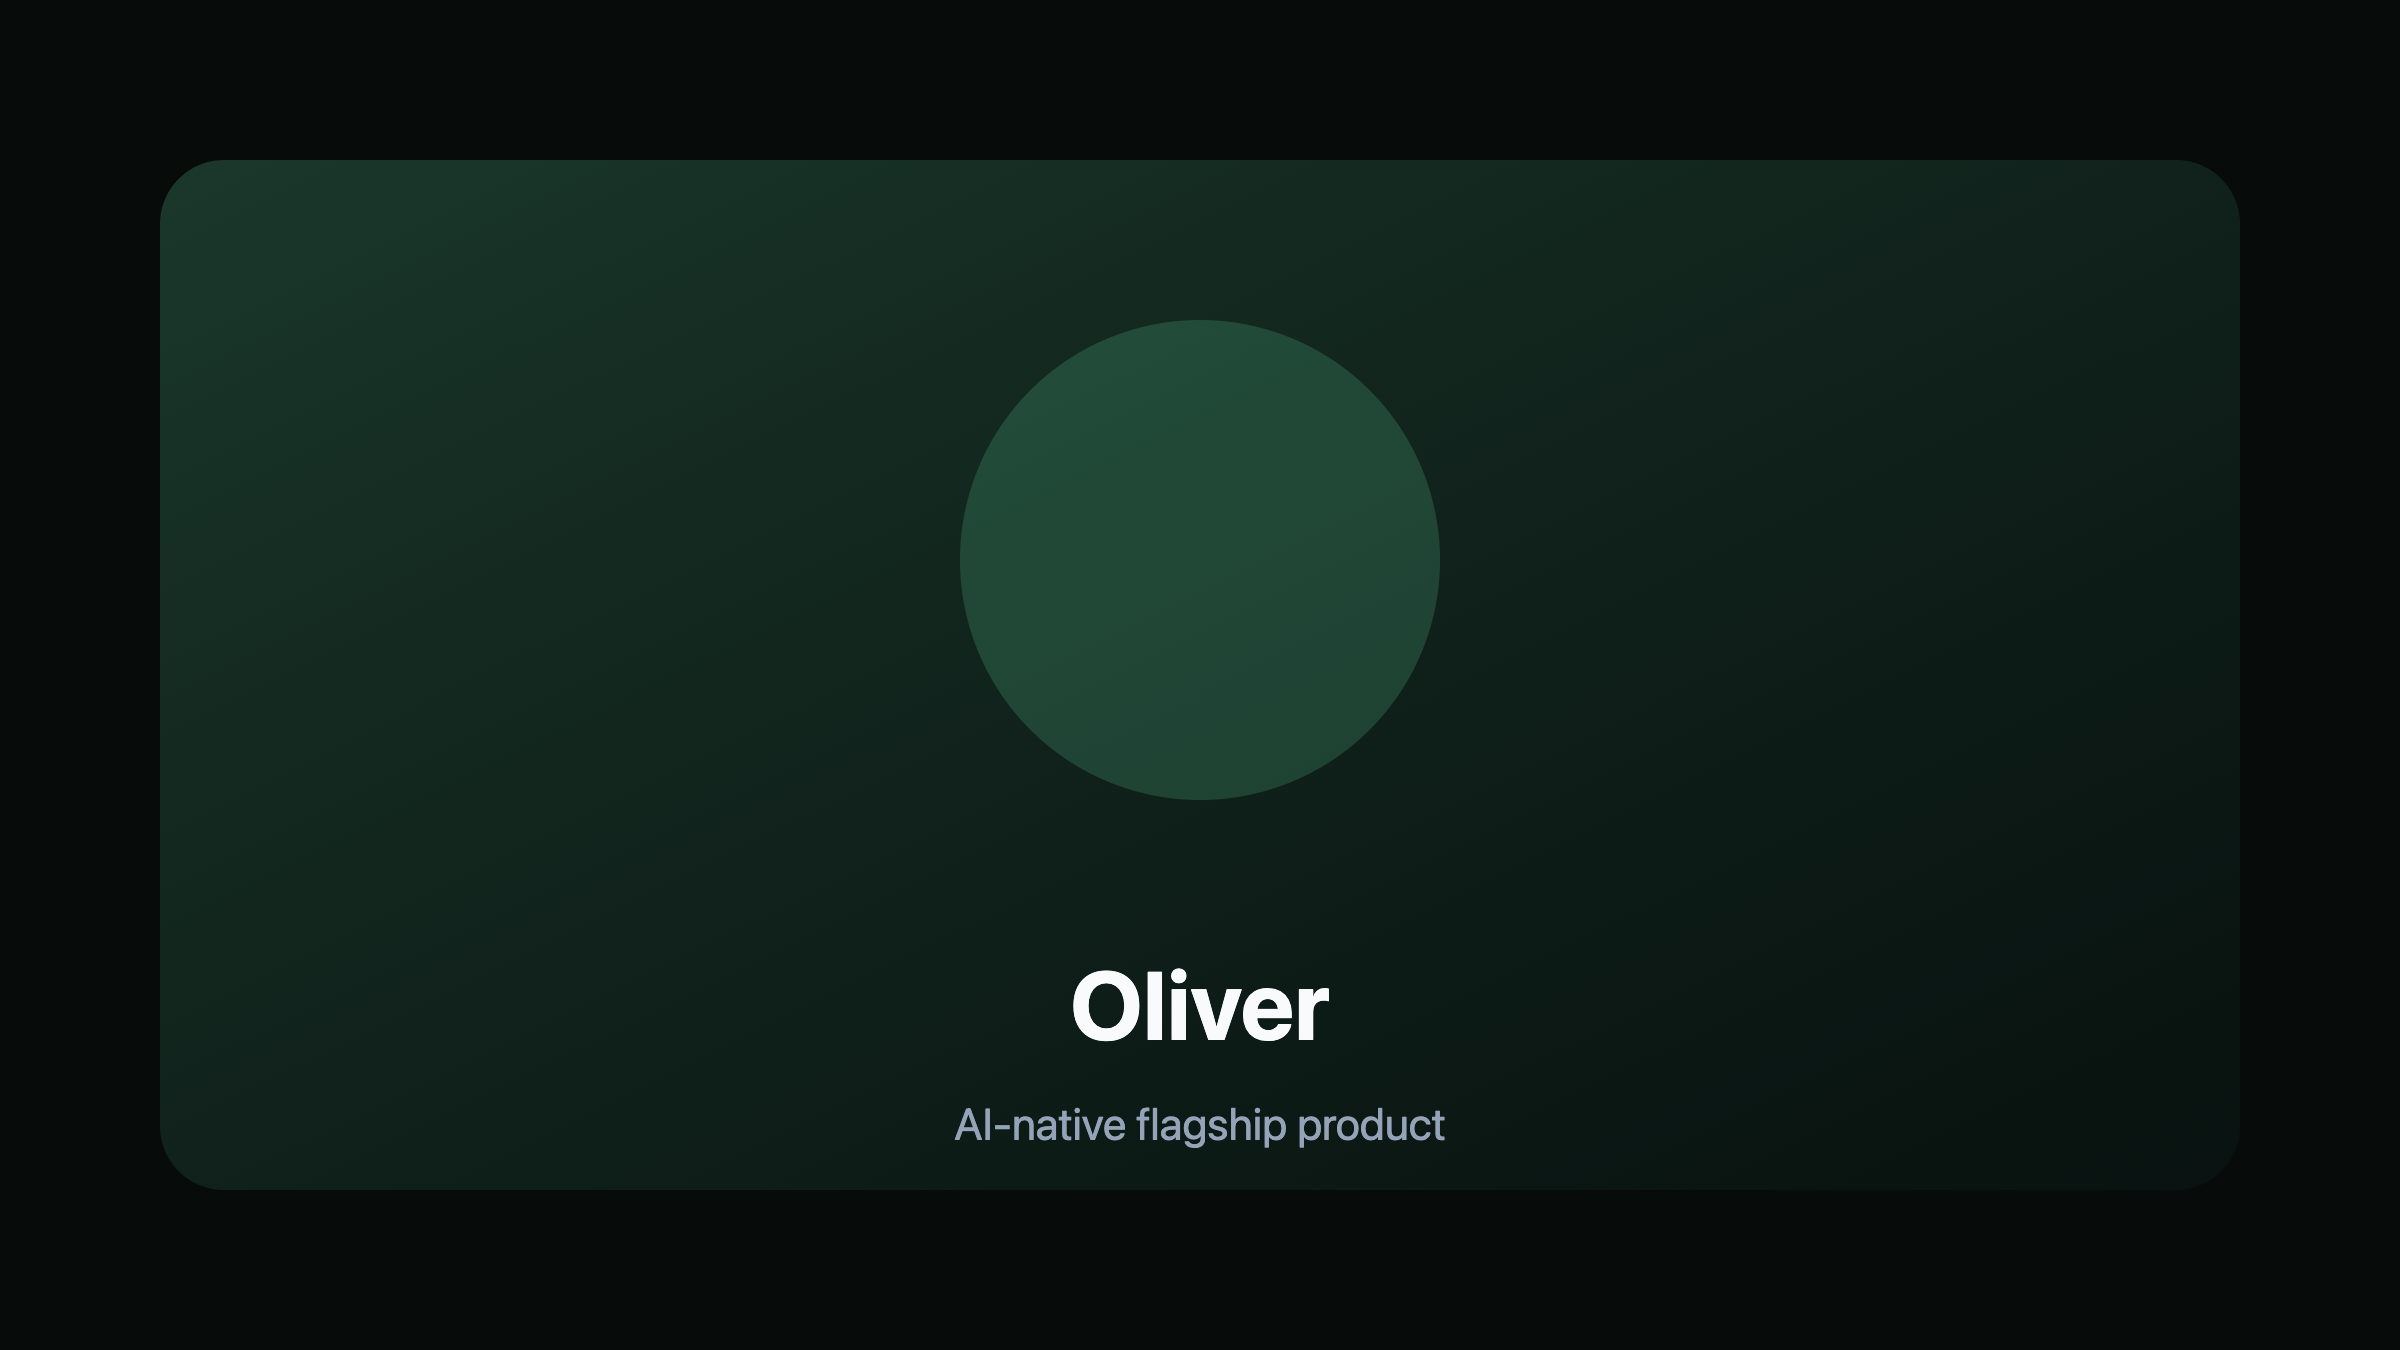
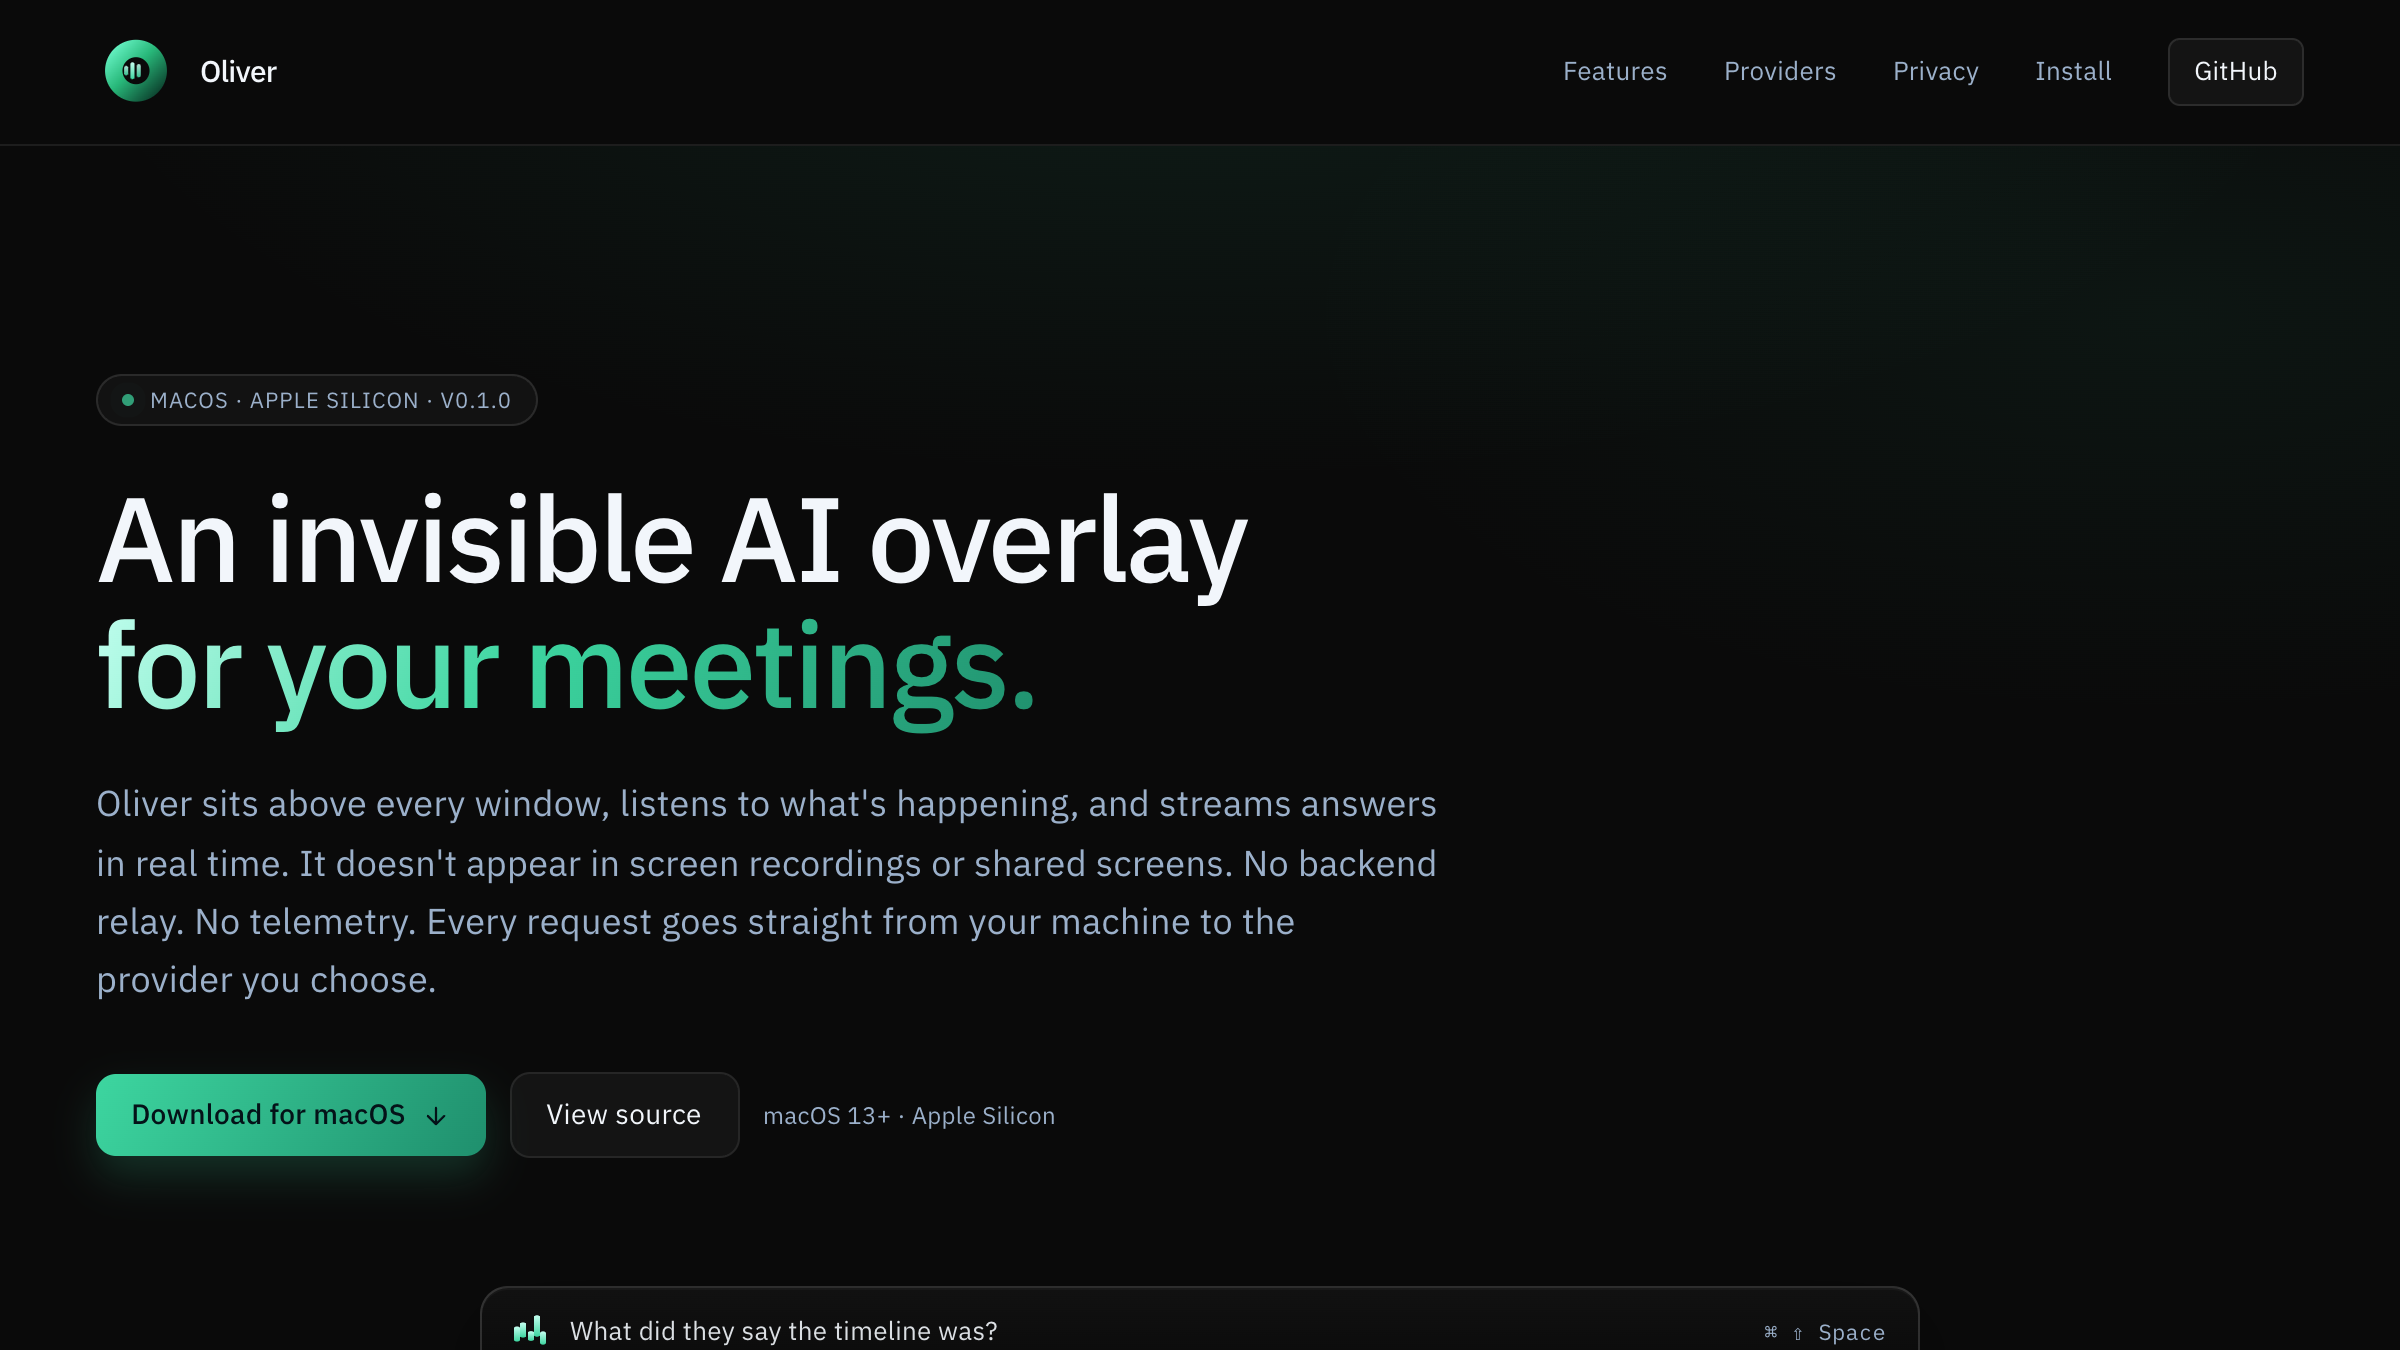
Wire Oliver live demo and simplify recruiter strip.
Add oliver-site-psi.vercel.app as demo link with a fresh screenshot,
fix project image overlay, and remove duplicate CTAs from recruiter strip.

diff --git a/components/recruiter-strip.tsx b/components/recruiter-strip.tsx
@@ -1,51 +1,19 @@
-import { ArrowRight, Download, Mail } from "lucide-react";
-import Link from "next/link";
-
 import { proofPoints, siteMeta } from "@/lib/data";
 
 export function RecruiterStrip() {
   return (
     <section
       aria-label="Recruiter overview"
-      className="glass-panel-strong -mt-6 relative z-30 mb-4 grid gap-6 p-6 lg:grid-cols-[1.2fr_0.8fr] lg:p-8"
+      className="glass-panel-strong relative z-30 -mt-6 mb-4 p-6 lg:p-8"
     >
-      <div>
-        <p className="font-mono text-xs uppercase tracking-[0.28em] text-accent">{siteMeta.availability}</p>
-        <p className="mt-3 text-lg font-semibold text-white">{siteMeta.title}</p>
-        <div className="mt-5 flex flex-wrap gap-2">
-          {proofPoints.map((point) => (
-            <span key={point} className="liquid-glass rounded-full px-3 py-1.5 text-xs text-slate-200">
-              {point}
-            </span>
-          ))}
-        </div>
-      </div>
-      <div className="flex flex-col justify-center gap-3 sm:flex-row lg:flex-col xl:flex-row">
-        <a
-          href={siteMeta.resumePath}
-          target="_blank"
-          rel="noopener noreferrer"
-          className="inline-flex items-center justify-center gap-2 rounded-full bg-accent px-6 py-3 text-sm font-bold uppercase tracking-[0.14em] text-[#070b0a] transition hover:scale-[1.03]"
-        >
-          Download resume
-          <Download className="h-4 w-4" />
-        </a>
-        <a
-          href={`mailto:${siteMeta.email}`}
-          className="liquid-glass inline-flex items-center justify-center gap-2 rounded-full px-6 py-3 text-sm font-bold uppercase tracking-[0.14em] text-white transition hover:text-accent"
-        >
-          Email
-          <Mail className="h-4 w-4" />
-        </a>
-        <a
-          href={siteMeta.linkedin}
-          target="_blank"
-          rel="noopener noreferrer"
-          className="liquid-glass inline-flex items-center justify-center gap-2 rounded-full px-6 py-3 text-sm font-bold uppercase tracking-[0.14em] text-white transition hover:text-accent"
-        >
-          LinkedIn
-          <ArrowRight className="h-4 w-4" />
-        </a>
+      <p className="font-mono text-xs uppercase tracking-[0.28em] text-accent">{siteMeta.availability}</p>
+      <p className="mt-3 text-lg font-semibold text-white">{siteMeta.title}</p>
+      <div className="mt-5 flex flex-wrap gap-2">
+        {proofPoints.map((point) => (
+          <span key={point} className="liquid-glass rounded-full px-3 py-1.5 text-xs text-slate-200">
+            {point}
+          </span>
+        ))}
       </div>
     </section>
   );

diff --git a/components/project-card.tsx b/components/project-card.tsx
@@ -27,7 +27,7 @@ export function ProjectCard({ project, priority = false }: ProjectCardProps) {
     <motion.div style={{ y }} className={priority ? "lg:col-span-2" : undefined}>
       <article ref={ref} className="glass-panel group h-full overflow-hidden p-6 transition hover:scale-[1.01]">
         <Link href={caseStudyHref} className="block">
-          <div className="relative aspect-video overflow-hidden rounded-[1.4rem]">
+          <div className="relative isolate aspect-video overflow-hidden rounded-[1.4rem]">
             <Image
               src={project.heroImage}
               alt={`${project.title} preview`}
@@ -36,10 +36,13 @@ export function ProjectCard({ project, priority = false }: ProjectCardProps) {
               sizes="(max-width: 768px) 100vw, 50vw"
               priority={priority}
             />
-            <div className="absolute inset-0 bg-gradient-to-t from-[#070b0a]/80 via-transparent to-transparent" />
-            <div className="absolute right-4 top-4 liquid-glass rounded-full p-3 text-white">
-              <ArrowUpRight className="h-4 w-4" aria-hidden="true" />
-            </div>
+            <div className="pointer-events-none absolute inset-0 bg-gradient-to-t from-[#070b0a]/70 via-[#070b0a]/10 to-transparent" />
+            <span
+              className="absolute right-3 top-3 z-10 flex h-9 w-9 items-center justify-center rounded-full border border-white/20 bg-[#070b0a]/60 text-white shadow-lg backdrop-blur-md transition group-hover:border-accent/50 group-hover:text-accent"
+              aria-hidden="true"
+            >
+              <ArrowUpRight className="h-4 w-4 shrink-0" />
+            </span>
           </div>
 
           <div className={`liquid-glass relative mt-5 rounded-[1.6rem] bg-gradient-to-br ${project.accent} p-6`}>

diff --git a/lib/data.ts b/lib/data.ts
@@ -174,8 +174,9 @@ export const projects: Project[] = [
     stack: ["TypeScript", "Next.js", "Modern UI systems", "AI-native workflows"],
     capabilities: ["Product direction", "Interface systems", "Interactive design", "AI product thinking"],
     links: [
+      { label: "Live demo", href: "https://oliver-site-psi.vercel.app", kind: "demo" },
       { label: "GitHub", href: "https://github.com/Anuragh33/Oliver", kind: "repo" },
-      { label: "Private source / case study only", href: "/contact", kind: "case-study" }
+      { label: "Case study", href: "/work/oliver", kind: "case-study" }
     ],
     featured: true,
     order: 1,